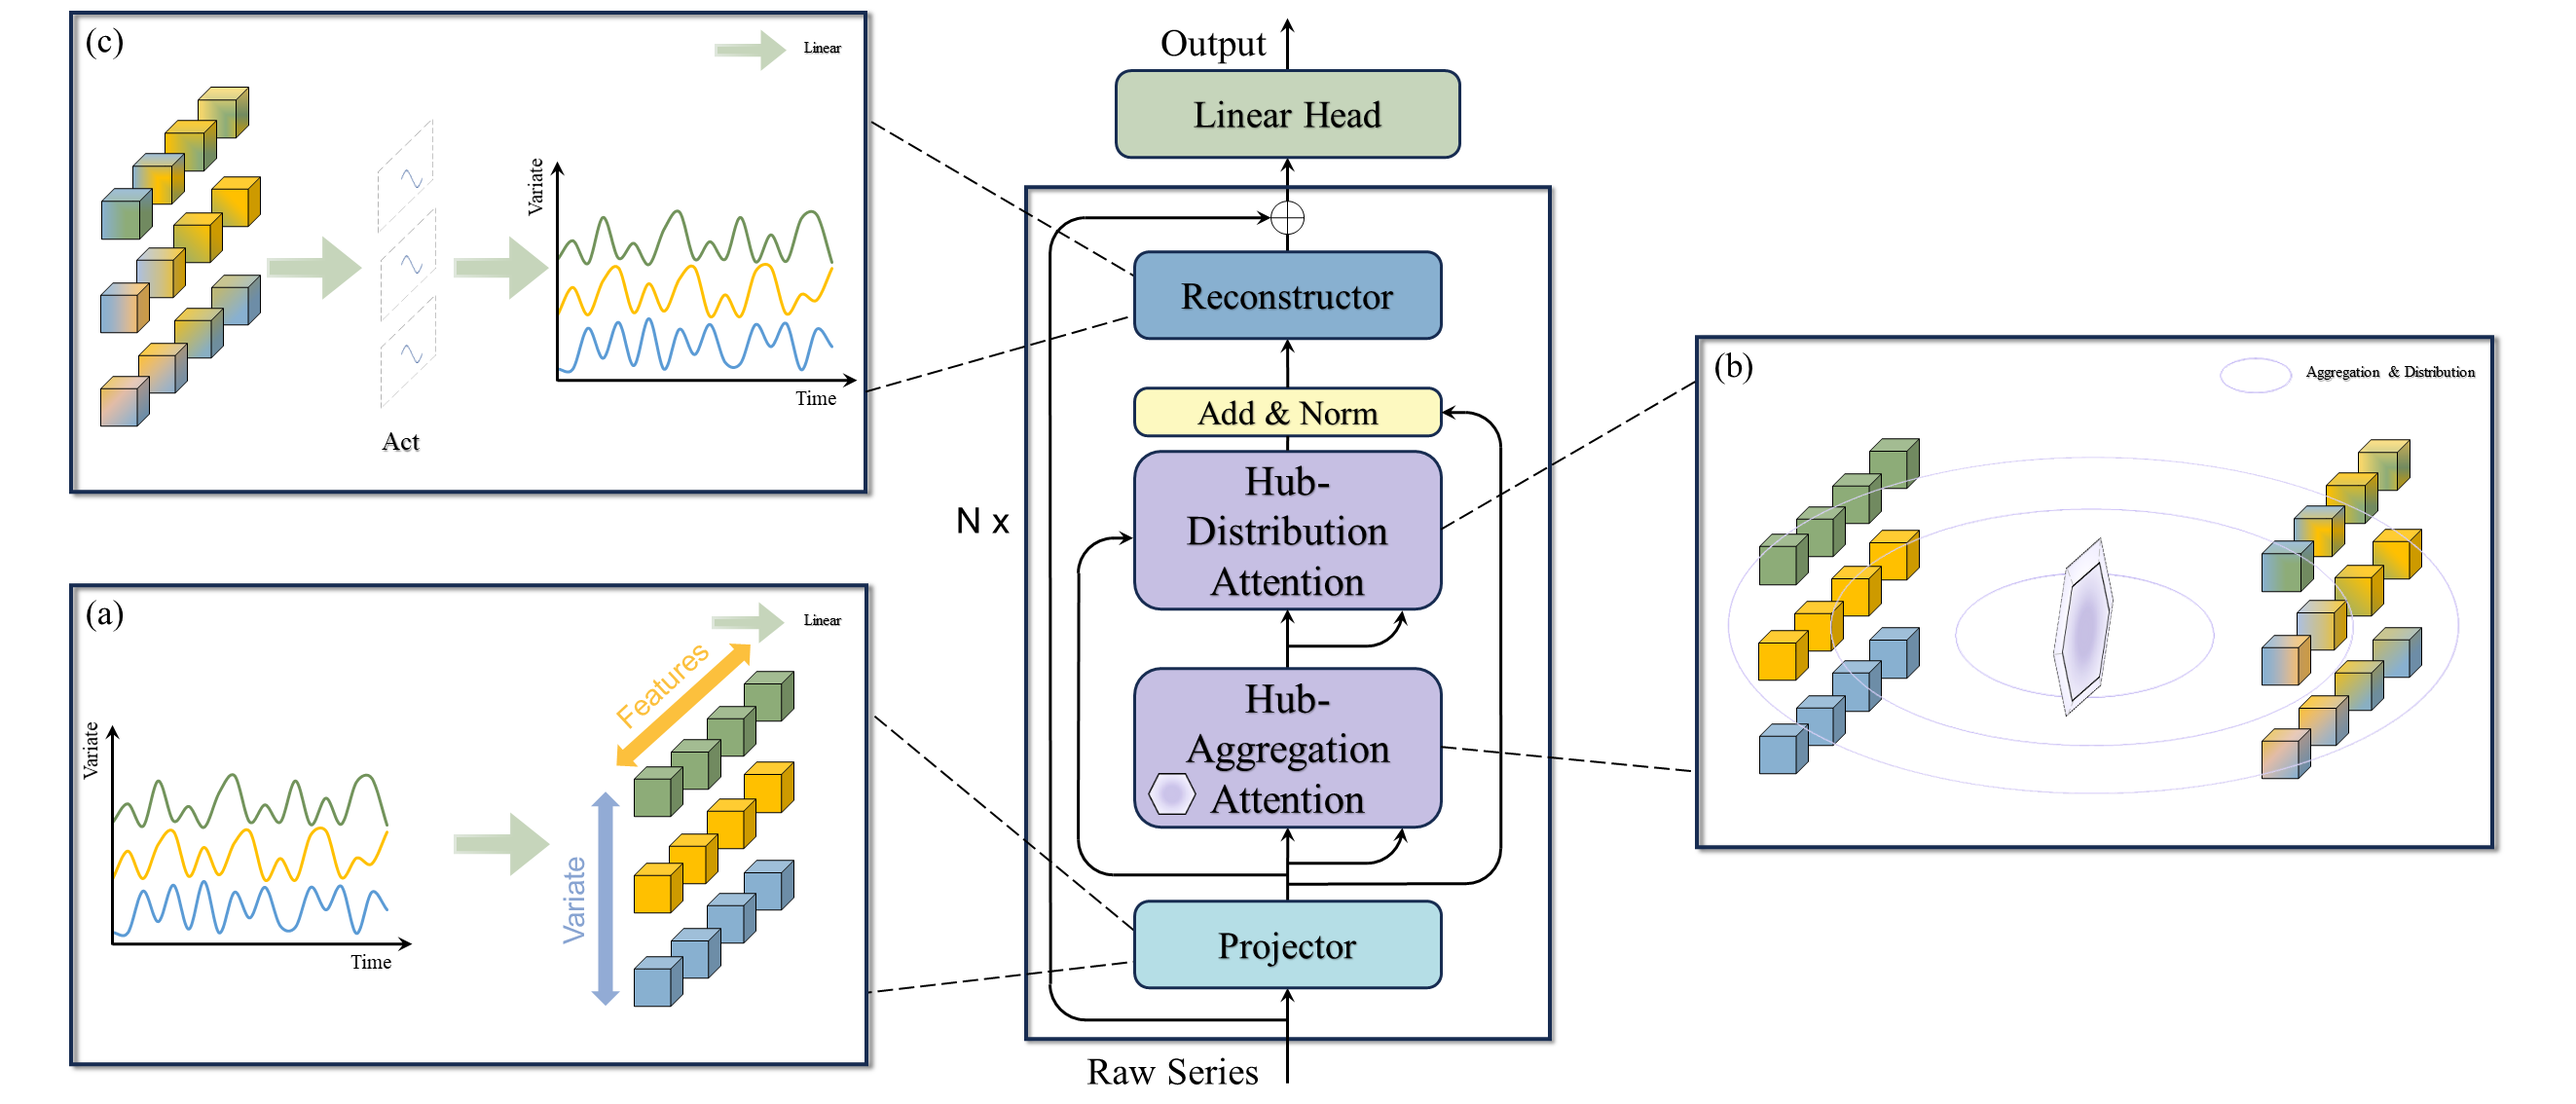
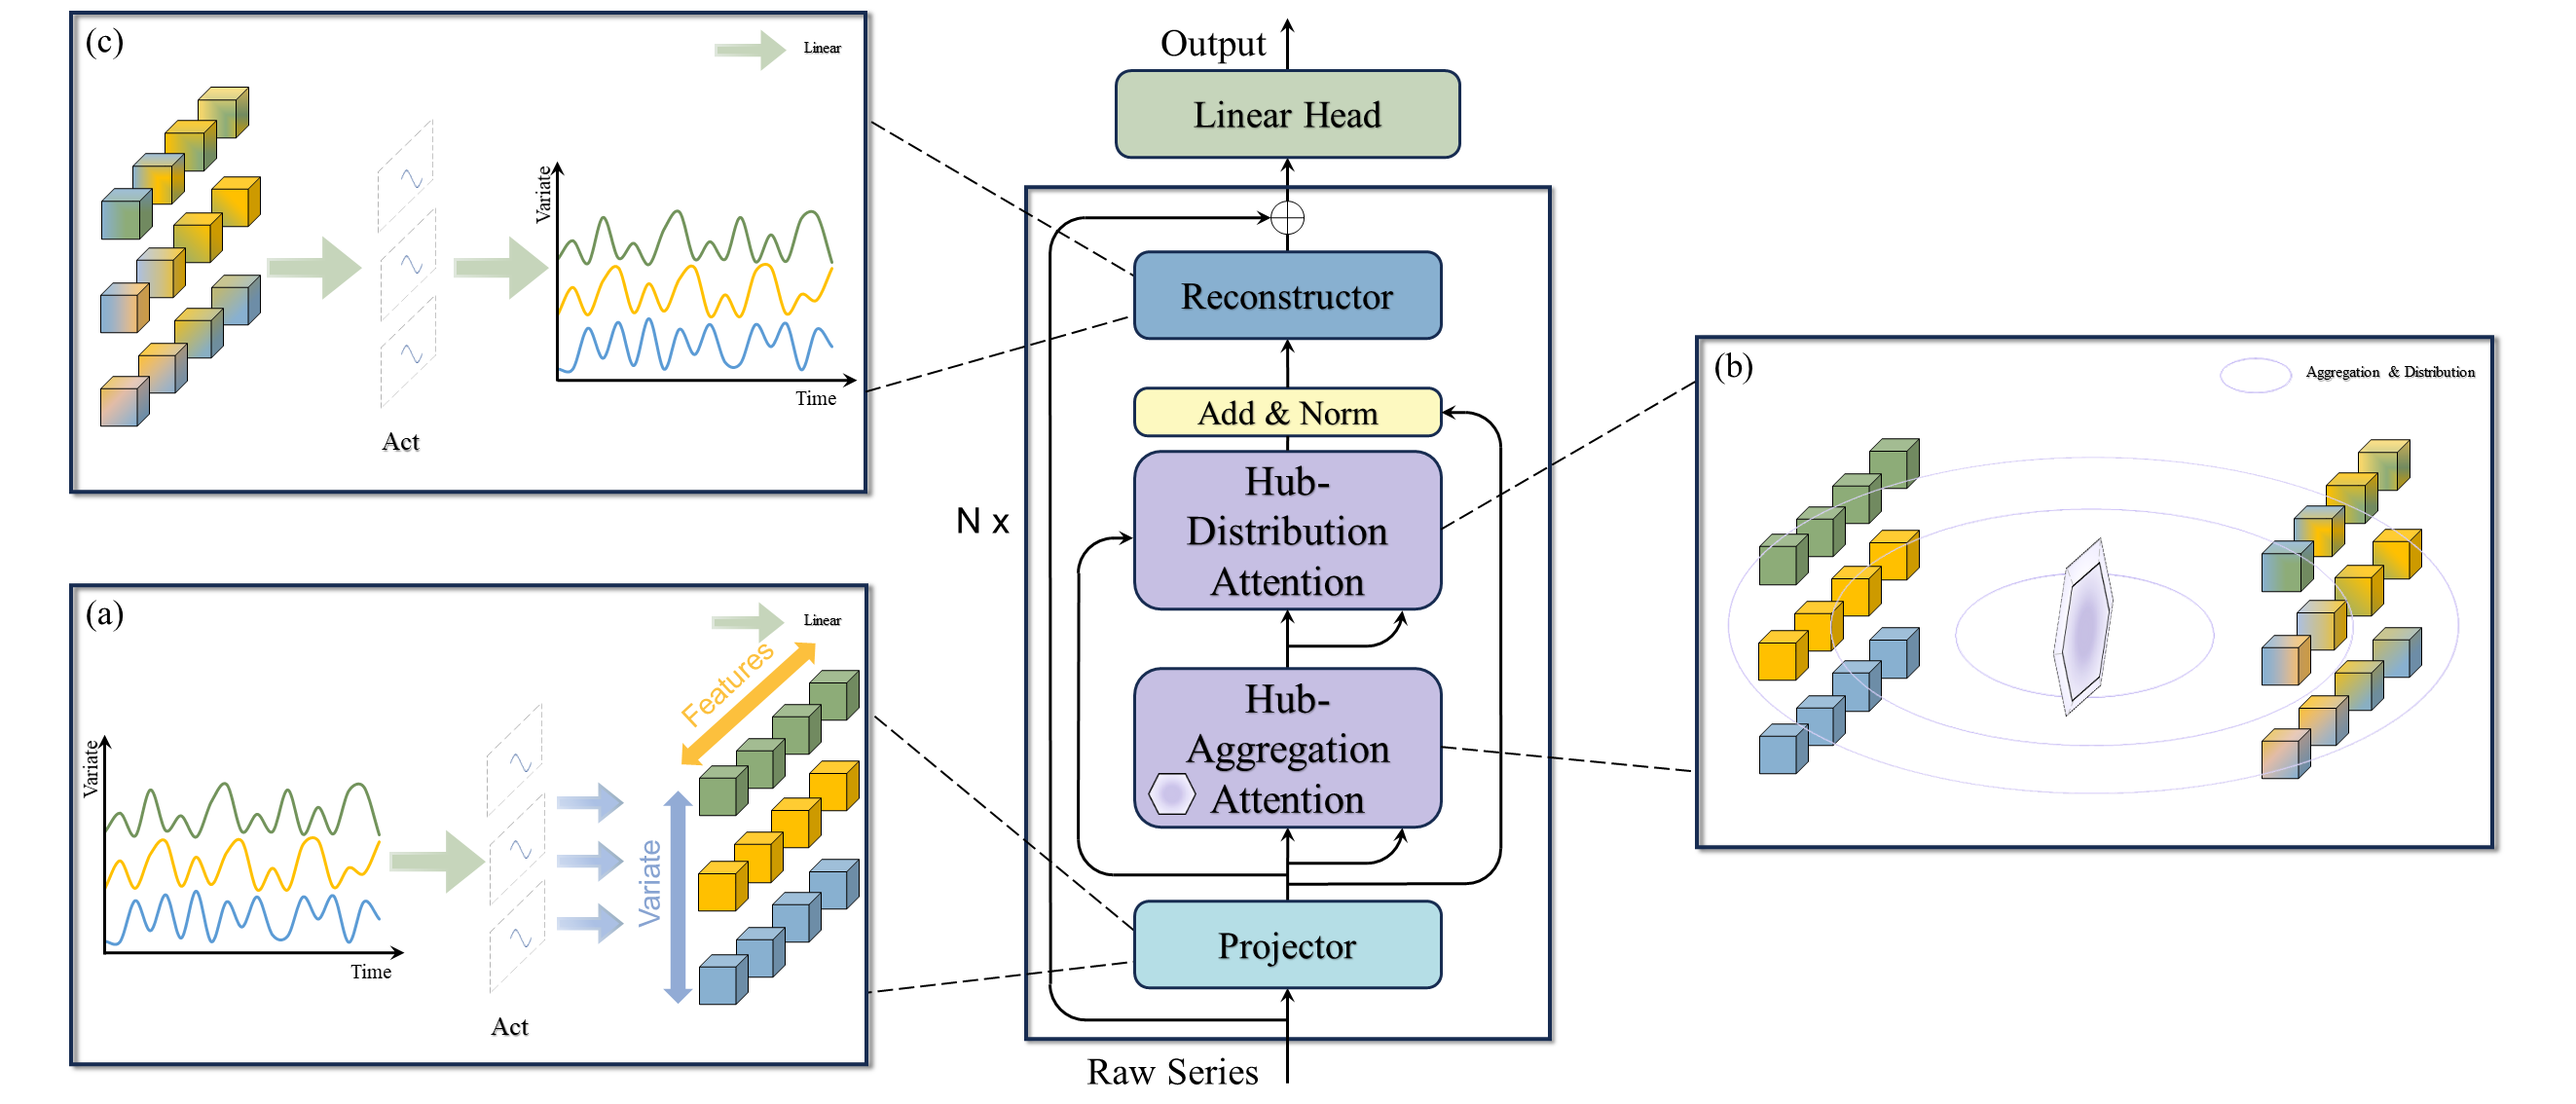
finnal?

Changed region(s): [[0.031, 0.5864, 0.3409, 0.9259], [0.1859, 0.9259, 0.2169, 0.9568], [0.1859, 0.1543, 0.2169, 0.1852]]

diff --git a/layers/AHuber_backbone.py b/layers/AHuber_backbone.py
@@ -62,9 +62,9 @@ class Backbone(nn.Module):
         """
         super().__init__()
   
-        # 1. Encoder: Seq -> Token
+        # 1. Projector: Seq -> Token
 
-        self.encoder = nn.Sequential(
+        self.Projector = nn.Sequential(
             nn.Linear(seq_len, d_model),
             nn.GELU(),
             nn.Dropout(dropout),
@@ -76,9 +76,8 @@ class Backbone(nn.Module):
         # 3. Distribution: Hub -> Vars
         self.attn_dist = nn.MultiheadAttention(embed_dim=d_model, num_heads=n_heads, batch_first=True)
         
-        # 4. Decoder: Token -> Seq
-
-        self.decoder = nn.Sequential(
+        # 4. Reconstructor: Token -> Seq
+        self.Reconstructor = nn.Sequential(
             nn.Linear(d_model, d_ff),
             nn.GELU(),
             nn.Dropout(dropout),
@@ -90,8 +89,8 @@ class Backbone(nn.Module):
 
     def forward(self, x_in, pre_hub_context):
 
-        # === Step 1: Encoder ===
-        var_tokens = self.encoder(x_in)
+        # === Step 1: Projector ===
+        var_tokens = self.Projector(x_in)
         
         # === Step 2: Aggregation ===
         # Aggregation: Hub (Query) <- Vars (Key/Value)
@@ -104,11 +103,11 @@ class Backbone(nn.Module):
         # === Step 3: Distribution ===
         var_refined, _ = self.attn_dist(query=var_tokens, key=next_hub_context,value=next_hub_context)
         
-        dec_in = self.norm_attn(var_tokens + self.dropout(var_refined))
+        rec_in = self.norm_attn(var_tokens + self.dropout(var_refined))
         
-        # === Step 4: Decode & Output ===
-        dec_out = self.decoder(dec_in)
-        # x_out = x_in + dec_out
-        x_out = x_in + self.dropout(dec_out)
+        # === Step 4: Reconstruct & Output ===
+        rec_out = self.Reconstructor(rec_in)
+        # x_out = x_in + rec_out
+        x_out = x_in + self.dropout(rec_out)
         
         return x_out, next_hub_context

diff --git a/run_exp.py b/run_exp.py
@@ -130,15 +130,13 @@ if __name__ == '__main__':
     Exp = Exp_Main
 
     # === Optimization: Define setting string once ===
-    setting = '{}_{}_{}_ft{}_sl{}_pd{}_pl{}_sd{}_dm{}_nh{}_el{}_df{}_lr{}_dp{}'.format(
+    setting = '{}_{}_{}_ft{}_sl{}_pd{}_dm{}_nh{}_el{}_df{}_lr{}_dp{}'.format(
         args.model_id,
         args.model,
         args.data,
         args.features,
         args.seq_len,
         args.pred_len,
-        args.patch_len,
-        args.stride,
         args.d_model,
         args.n_heads,
         args.e_layers,
